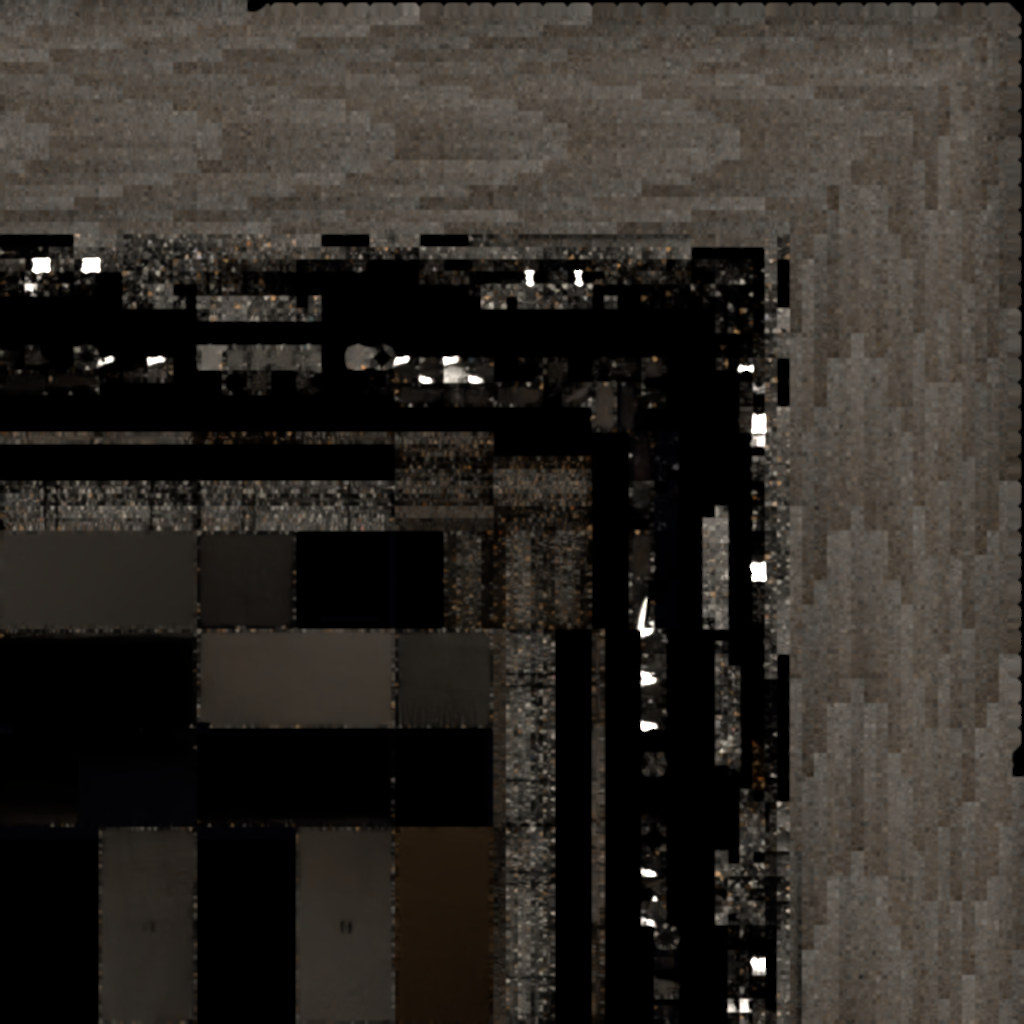
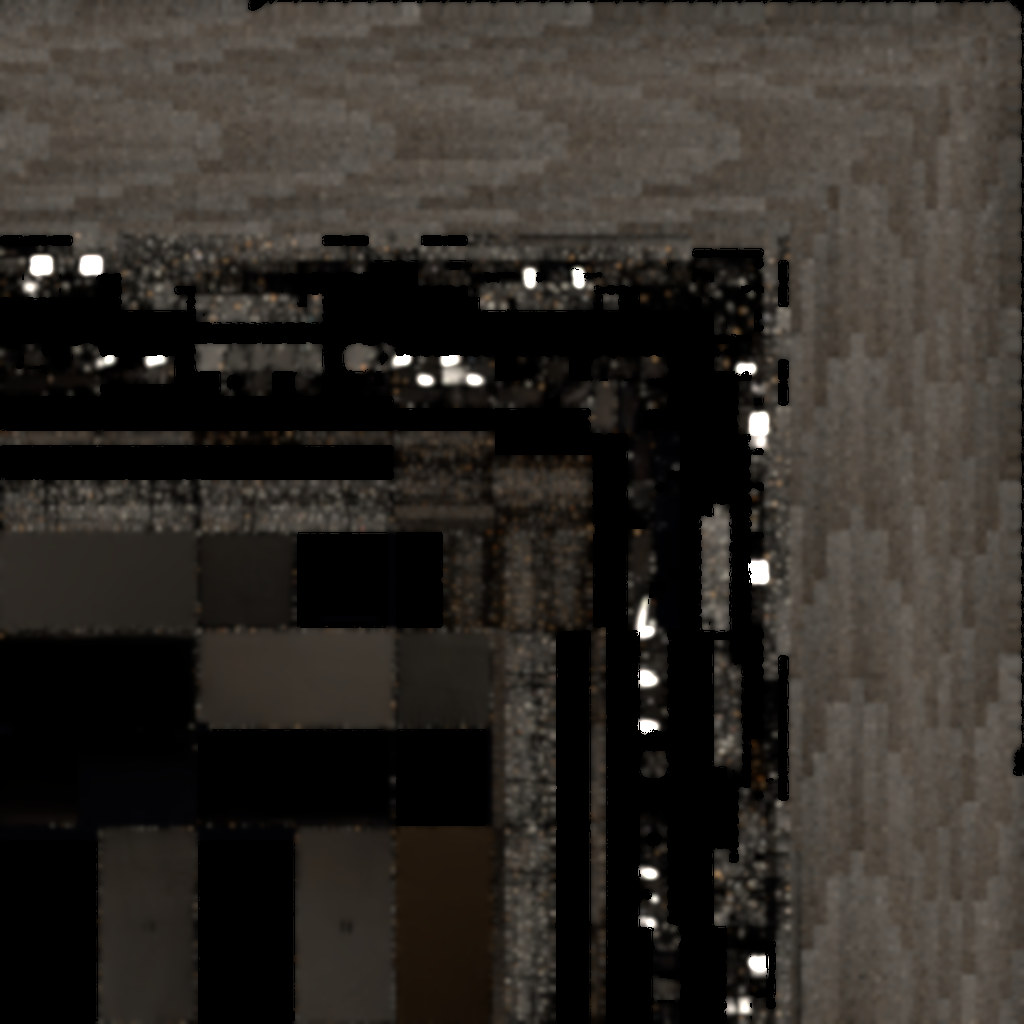
Room polish: softer gear lightmap, brass curtain rod, nav sized like the site, lighter door scrim
Claude-Session: https://claude.ai/code/session_01BJR4AyphjLcfBT9JN8iViV

diff --git a/room.html b/room.html
@@ -164,7 +164,7 @@ body{color:var(--ink);background:#fff}
 .t:focus-visible{outline:1px solid var(--ink)}
 .cap,.mono,.sub{font-family:var(--mono);font-size:10.5px;letter-spacing:.09em;text-transform:uppercase;color:var(--dim)}
 #top{left:20px;top:calc(env(safe-area-inset-top,0px) + 16px);gap:0}
-#top .name,#nav{font-size:clamp(19px,1.45vw,30px);line-height:1.08}
+#top .name,#nav{font-size:clamp(19px,1.33vw,34px);line-height:1.08}
 #top .name{margin:0}
 #nav{gap:0;margin-top:0}
 #nav .t.on{color:var(--red)}
@@ -184,7 +184,7 @@ body{color:var(--ink);background:#fff}
 #p-acts .t{font-family:var(--mono);font-size:10px;letter-spacing:.09em;text-transform:uppercase;color:var(--dim)}
 @media (hover:hover){#p-acts .t:hover{color:var(--ink)}}
 #intro{background:rgba(255,255,255,.18)}
-#intro .inner{left:20px;top:calc(env(safe-area-inset-top,0px) + 16px);font-size:clamp(19px,1.45vw,30px);line-height:1.08}
+#intro .inner{left:20px;top:calc(env(safe-area-inset-top,0px) + 16px);font-size:clamp(19px,1.33vw,34px);line-height:1.08}
 #intro .meta{color:var(--dim)}
 #gb-form label,#gb-not{font-family:var(--mono);font-size:10.5px;letter-spacing:.09em;text-transform:uppercase;color:var(--dim)}
 #gb-form{gap:12px;margin-top:6px}
@@ -383,7 +383,7 @@ function cityCanvas(){const w=2048,h=512,c=mk(w,h),g=c.getContext('2d');let x=0;
 const city=new THREE.Mesh(new THREE.PlaneGeometry(110,26),new THREE.MeshBasicMaterial({map:T(cityCanvas()),transparent:true}));city.position.set(0,-7,-46);scene.add(city);
 
 /* ================= room: measured model from Blender, lighting baked into a lightmap ================= */
-const texL=new THREE.TextureLoader();const AV='?b=1793783534';
+const texL=new THREE.TextureLoader();const AV='?b=1793783964';
 function tex(u){const t=texL.load(u);t.encoding=THREE.sRGBEncoding;t.wrapS=t.wrapT=THREE.RepeatWrapping;t.anisotropy=maxAniso;t.flipY=false;return t}
 const lmTex=texL.load(ASSET+'lm_'+OPT.toLowerCase()+'.jpg'+AV,()=>{roomParts++;setLoading()});lmTex.encoding=THREE.sRGBEncoding;lmTex.flipY=false;lmTex.anisotropy=maxAniso;
 const ALBEDO={floor_maple:'maple.jpg',ceiling_tin:'tin.jpg',brick_painted:'brick.jpg',wall_plaster:'plaster.jpg',portable_wall:'plaster.jpg'};
@@ -396,6 +396,7 @@ new THREE.GLTFLoader().load(ASSET+'room_'+OPT.toLowerCase()+'.glb'+AV,g=>{
     const isGear=o.name.startsWith('gear')||(o.parent&&o.parent.name.startsWith('gear'));
     const mb=new THREE.MeshBasicMaterial({color:m.color.clone(),lightMap:isGear?gTex:lmTex,lightMapIntensity:LMK});
     if(n.startsWith('g_curtain'))mb.side=THREE.DoubleSide;
+    if(n.startsWith('g_rod')){mb.lightMap=null;mb.color.setRGB(.42,.32,.17)}
     if(ALBEDO[n]){mb.map=tex(ASSET+ALBEDO[n]+AV);if(REPEAT[n])mb.map.repeat.set(REPEAT[n],REPEAT[n]);mb.color.setRGB(1,1,1)}
     if(n==='mirror'){mb.lightMap=null;mb.color.setRGB(.42,.45,.5)}
     if(n==='door_grey'){mb.lightMap=null;mb.map=tex(ASSET+'door.jpg'+AV);mb.color.setRGB(.27,.265,.26)}   /* doors: flat clean paint, the dim bounce light on them was all noise */

diff --git a/c.html b/c.html
@@ -34,8 +34,8 @@ input::placeholder{color:rgba(255,255,255,.4)}input:focus{border-bottom-color:#f
 :root{--ink:#111;--dim:#8d8d8d;--red:#ff0000;--mono:"DM Mono",ui-monospace,Menlo,monospace;color-scheme:light}
 body{background:#fff;color:var(--ink)}
 #bg{background-color:#f4f3f0}
-#bg::after{background:linear-gradient(90deg,rgba(255,255,255,.86),rgba(255,255,255,.55) 34%,rgba(255,255,255,0) 62%),linear-gradient(rgba(255,255,255,.35),rgba(255,255,255,0) 40%,rgba(255,255,255,0) 75%,rgba(255,255,255,.4))}
-main{left:20px;top:calc(env(safe-area-inset-top,0px) + 16px);font-size:clamp(19px,1.45vw,30px);line-height:1.08;text-shadow:none;gap:0}
+#bg::after{background:radial-gradient(640px 420px at 0 0,rgba(255,255,255,.82),rgba(255,255,255,.4) 50%,rgba(255,255,255,0) 78%),linear-gradient(rgba(255,255,255,0) 80%,rgba(255,255,255,.35))}
+main{left:20px;top:calc(env(safe-area-inset-top,0px) + 16px);font-size:clamp(19px,1.33vw,34px);line-height:1.08;text-shadow:none;gap:0}
 .name{font-size:inherit;line-height:inherit;margin:0}
 .embed main{top:calc(env(safe-area-inset-top,0px) + 16px)}
 h1{margin:0 0 1.1em}
